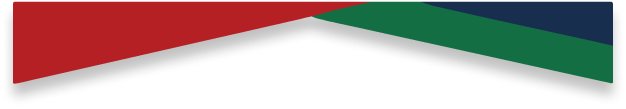
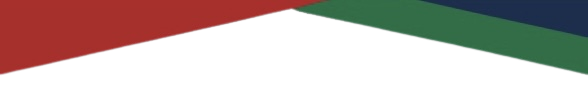
[Fix] adjusted pic above the form

diff --git a/src/app/components/Login/login-screen/login-screen.component.html b/src/app/components/Login/login-screen/login-screen.component.html
@@ -12,7 +12,7 @@
           <div class="col-sm-5 remove-space">
               <div class="coloumn">
                   <div class="above-login">
-                    <img class = "img-fluid" src="assets\pics\above-login.png" alt = "above form">
+                    <img class = "img-fluid" src="assets\pics\above-login.png" style="width:100%"alt = "above form">
                   </div>
                     <div>
 
